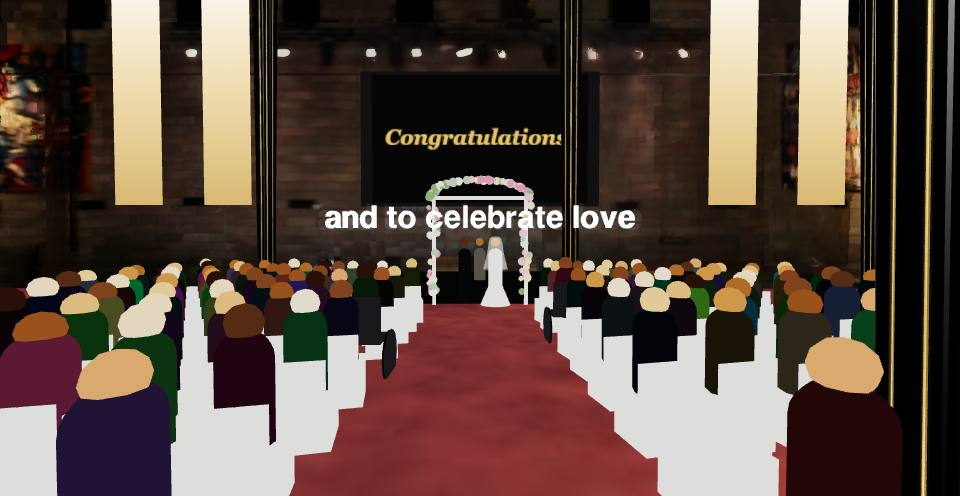
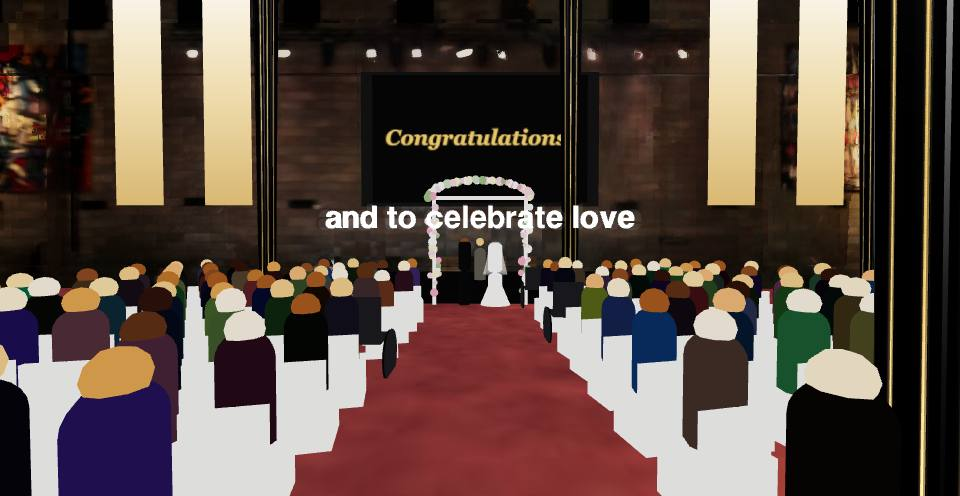
Shot 7 (Lloyd's note, V8): nobody slides. The couple step in to each other during the turn, then the feet are planted and everything is a bend at the hips: the bride back, the groom forward over her (his legs leaning a little toward her); each body is legs plus an upper body and head turning about t
Claude-Session: https://claude.ai/code/session_01TvFyJ7jgaVEcvXM9wy2J9o

diff --git a/index.html b/index.html
@@ -2578,8 +2578,10 @@ function buildWedding(ctx){
   fl.setColorAt(i,c.set(FLOWERS[Math.floor(Math.random()*FLOWERS.length)])); }
  fl.instanceColor.needsUpdate=true; eventGroup.add(fl);
  // the couple and the celebrant
- const cp=peopleMeshes(3,1.05);
- cp.bm.setColorAt(0,c.set(0xf7f5f0)); cp.bm.setColorAt(1,c.set(0x17171b)); cp.bm.setColorAt(2,c.set(0x5a5650));
+ // five instances: bride, groom, celebrant, then the bride's and the groom's LEGS for the
+ // ceremony's bends at the hips (Lloyd, shot 7 V8)
+ const cp=peopleMeshes(5,1.05);
+ cp.bm.setColorAt(0,c.set(0xf7f5f0)); cp.bm.setColorAt(1,c.set(0x17171b)); cp.bm.setColorAt(2,c.set(0x5a5650)); cp.bm.setColorAt(3,c.set(0xf7f5f0)); cp.bm.setColorAt(4,c.set(0x17171b)); cp.hm.setColorAt(3,c.set(0x000000)); cp.hm.setColorAt(4,c.set(0x000000));
  for(let i=0;i<3;i++)cp.hm.setColorAt(i,c.set(SKIN_TONES[Math.floor(Math.random()*SKIN_TONES.length)]));
  cp.bm.instanceColor.needsUpdate=true; cp.hm.instanceColor.needsUpdate=true; eventGroup.add(cp.bm,cp.hm);
  wedding={cp,y0,uMid,seated:null,t0:Math.random()*10,phase:'couple',hasGroom:true,gone:false,summon:null,cwalk:null};
@@ -2682,42 +2684,46 @@ function updateWedding(dt,t){
   // THE CEREMONY (Lloyd, shot 7): from 6 s they turn and step in to each other, the veil is
   // lifted back, they kiss, and the groom dips the bride; everyone upright again by the end. The
   // tilt is a turn about the feet, toward +u for a positive angle
-  let tiltA=0, vLift=0;
+  let cer=null, vLift=0;
   if(W.cer!=null&&!W.walk&&!sm&&!W.gone&&i!==2){ const ce=W.cer, U=EVENT.N.u, side=i===0?-1:1, cl=(a,b)=>Math.max(0,Math.min(1,(ce-a)/(b-a)));
    const turn=smooth(cl(6,7.5)), kiss=smooth(cl(9.5,10.7)), dip=smooth(cl(10.7,12.0))*(1-smooth(cl(13.0,13.9))); vLift=smooth(cl(7.8,9.3));
-   // (Lloyd, V3, V4) heads meet and nothing clips: no step in for the dip (the groom's feet were
-   // inside the gown's hem), he leans further over her instead
-   const step=0.08*turn;
-   fx-=side*U.x*step; fz-=side*U.z*step;
-   // (Lloyd, V5) their faces touch the whole time: the bride's head is worked out from her lean,
-   // and the groom's feet are placed so that HIS head lands 16 cm across and 16 cm in front of
-   // hers at his own lean; the leans are gentle enough that the bodies stay clear
-   // (Lloyd, V6) through the dip his head stays ON HER FACE, not down at her chest: the 16 cm
-   // across turns with her body as she goes back (so it rises with her face), and his lean is
-   // whatever puts his head at that height, not a fixed angle
-   // (Lloyd, V7) the bride is shorter than the groom (her head at HB, his at HG), so he bends
-   // down to her for the kiss as well as the dip: his lean is always the one that puts his
-   // head at hers
-   if(i===0){ tiltA=0.11*kiss-0.35*dip; W.bt=tiltA; W.bh={x:fx+U.x*HB*Math.sin(tiltA),z:fz+U.z*HB*Math.sin(tiltA)}; }
-   else { const tb=W.bt||0, du=0.16*Math.cos(tb), hy=HB*Math.cos(tb)-0.16*Math.sin(tb), k=Math.max(kiss,dip), R=EVENT.N.inRoom;
-    tiltA=-Math.acos(Math.min(1,hy/HG))*k;
-    if(W.bh&&k>0){ const hx=W.bh.x+U.x*du+R.x*0.16*k, hz=W.bh.z+U.z*du+R.z*0.16*k; const sx=hx-U.x*HG*Math.sin(tiltA), sz=hz-U.z*HG*Math.sin(tiltA); fx+=(sx-fx)*k; fz+=(sz-fz)*k; } } }
+   // (Lloyd, V8) nobody slides: they step in to each other during the turn (15 cm each), and
+   // from then on the feet are planted and everything is a BEND AT THE HIPS: the bride back,
+   // the groom forward over her, his legs leaning a little toward her too. Each body is legs
+   // (their own instance, 3 and 4) plus an upper body and head that turn about the hips. The
+   // bride's bend is set; the groom's is solved so his head lands 16 cm across and 16 cm in
+   // front of hers (V5, V6, V7: the bride is shorter, her head at HB, his at HG)
+   const step=0.15*turn; fx-=side*U.x*step; fz-=side*U.z*step;
+   if(i===0){ const phi=0.11*kiss-0.35*dip; W.bphi=phi; W.bh={x:fx+sway+U.x*0.64*Math.sin(phi),z:fz+U.z*0.64*Math.sin(phi)}; cer={phi,leg:0,hip:0.85,lh:HB-0.85}; }
+   else { const k=Math.max(kiss,dip), R=EVENT.N.inRoom, pb=W.bphi||0, du=0.16*Math.cos(pb); let phi=0, leg=0;
+    if(W.bh&&k>0){ const hx=W.bh.x+U.x*du+R.x*0.16*k, hz=W.bh.z+U.z*du+R.z*0.16*k;
+     // the hips move with the legs' lean, so solve the two together (a few rounds settle it)
+     for(let it=0;it<3;it++){ const hu=(hx-(fx+sway))*U.x+(hz-fz)*U.z-0.9*Math.sin(leg); phi=Math.asin(Math.max(-0.98,Math.min(0.3,hu/(HG-0.9)))); leg=0.3*phi; } }
+    cer={phi:phi*k,leg:leg*k,hip:0.9,lh:HG-0.9}; } }
   if(W.phase==='done'&&i===2)hide=true;
   // through the finale the bride and groom go where finaleStep puts them (out the door)
   if(W.fin&&i!==2){ if(W.fin.pos){ fx=W.fin.pos[i].x; fz=W.fin.pos[i].z; hide=false; } else hide=true; }
-  // (Lloyd, V7) the bride is 8% shorter; the groom's body runs down to the floor (stretched
-  // 14%), so when he leans about his feet nothing shows daylight under him
-  if(i===0)poseBH(W.cp.bm,W.cp.hm,i,fx+sway,fz,hide?-99:y0+0.725,hide?-99:y0+HB,1.15,0.92);
-  else poseBH(W.cp.bm,W.cp.hm,i,fx+sway,fz,hide?-99:y0+0.78,hide?-99:y0+HG,1,1,i===1?1.14:1);
-  if(i===0&&W.gown){ W.gown.visible=W.veil.visible=!hide;
-   if(!hide){ W.gown.position.set(fx+sway,y0+0.475,fz); W.veil.position.set(fx+sway,y0+HB+0.14,fz); W.gown.updateMatrix(); W.veil.updateMatrix(); } }
-  if(tiltA||vLift){ const U=EVENT.N.u, ax=new THREE.Vector3(0,1,0).cross(U).normalize(), pv=new THREE.Vector3(fx+sway,y0,fz);
-   const TR=new THREE.Matrix4().makeTranslation(pv.x,pv.y,pv.z).multiply(new THREE.Matrix4().makeRotationAxis(ax,tiltA)).multiply(new THREE.Matrix4().makeTranslation(-pv.x,-pv.y,-pv.z));
-   if(tiltA){ W.cp.bm.getMatrixAt(i,_cM); _cM.premultiply(TR); W.cp.bm.setMatrixAt(i,_cM); W.cp.hm.getMatrixAt(i,_cM); _cM.premultiply(TR); W.cp.hm.setMatrixAt(i,_cM); }
-   if(i===0&&W.gown&&!hide){ W.gown.updateMatrix(); W.gown.matrix.premultiply(TR);
-    // the veil lifted: swung back over the head about its crown, away from the groom
-    const cr=new THREE.Vector3(fx+sway,y0+HB+0.14,fz), VR=new THREE.Matrix4().makeTranslation(cr.x,cr.y,cr.z).multiply(new THREE.Matrix4().makeRotationAxis(ax,1.05*vLift)).multiply(new THREE.Matrix4().makeTranslation(-cr.x,-cr.y,-cr.z));
-    W.veil.updateMatrix(); W.veil.matrix.premultiply(VR).premultiply(TR); } }
+  const NOWHERE=()=>_cM.compose(_pV.set(0,-99,0),_cQ.identity(),{x:0.001,y:0.001,z:0.001});
+  if(cer&&!hide){ const U=EVENT.N.u, ax=new THREE.Vector3(0,1,0).cross(U).normalize(), sxz=i===0?1.15:1, li=3+i;
+   const about=(p,a)=>new THREE.Matrix4().makeTranslation(p.x,p.y,p.z).multiply(new THREE.Matrix4().makeRotationAxis(ax,a)).multiply(new THREE.Matrix4().makeTranslation(-p.x,-p.y,-p.z));
+   const feet=new THREE.Vector3(fx+sway,y0,fz), LR=about(feet,cer.leg);
+   const hips=feet.clone().addScaledVector(U,cer.hip*Math.sin(cer.leg)).setY(y0+cer.hip*Math.cos(cer.leg)), BR=about(hips,cer.phi);
+   // the legs: planted, leaning by leg about the feet; the upper body and the head about the hips
+   _cQ.identity(); _cM.compose(_pV.set(feet.x,y0+cer.hip/2,feet.z),_cQ,{x:sxz,y:cer.hip/1.37,z:sxz}).premultiply(LR); W.cp.bm.setMatrixAt(li,_cM);
+   NOWHERE(); W.cp.hm.setMatrixAt(li,_cM);
+   _cM.compose(_pV.set(hips.x,hips.y+0.375,hips.z),_cQ,{x:sxz,y:0.75/1.37,z:sxz}).premultiply(BR); W.cp.bm.setMatrixAt(i,_cM);
+   const hw=Math.min(sxz,1.1); _cM.compose(_pV.set(hips.x,hips.y+cer.lh,hips.z),_cQ,{x:hw,y:1,z:hw}).premultiply(BR); W.cp.hm.setMatrixAt(i,_cM);
+   if(i===0&&W.gown){ W.gown.visible=W.veil.visible=true; W.gown.position.set(feet.x,y0+0.475,feet.z); W.gown.updateMatrix();
+    // the veil on the head, bending with her; lifted: swung back over the head about its crown
+    const cr=new THREE.Vector3(hips.x,hips.y+cer.lh+0.14,hips.z); W.veil.position.copy(cr); W.veil.updateMatrix(); W.veil.matrix.premultiply(about(cr,1.05*vLift)).premultiply(BR); } }
+  else {
+   if(i<2){ NOWHERE(); W.cp.bm.setMatrixAt(3+i,_cM); W.cp.hm.setMatrixAt(3+i,_cM); }
+   // (Lloyd, V7) the bride is 8% shorter; the groom's body runs down to the floor (stretched
+   // 14%), so nothing shows daylight under him
+   if(i===0)poseBH(W.cp.bm,W.cp.hm,i,fx+sway,fz,hide?-99:y0+0.725,hide?-99:y0+HB,1.15,0.92);
+   else poseBH(W.cp.bm,W.cp.hm,i,fx+sway,fz,hide?-99:y0+0.78,hide?-99:y0+HG,1,1,i===1?1.14:1);
+   if(i===0&&W.gown){ W.gown.visible=W.veil.visible=!hide;
+    if(!hide){ W.gown.position.set(fx+sway,y0+0.475,fz); W.veil.position.set(fx+sway,y0+HB+0.14,fz); W.gown.updateMatrix(); W.veil.updateMatrix(); } } }
  }
  // RICE only ever leaves a hand that exists: guests still in their seats near the couple, or --
  // once the rows are empty -- the celebrant at the arch, who throws the last of it
